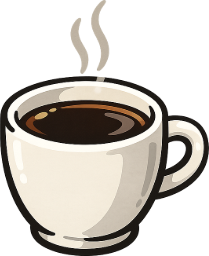
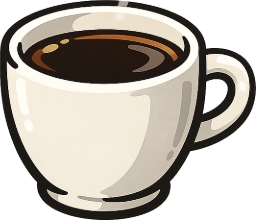
feat: 그림 미리 받기 · 커피 실루엣 수정 · 조준 범위를 받침대와 같게
## 그림을 시작 전에 다 받는다

렌더러가 그리려는 순간에 이미지를 불러오니, 그 물건이 처음 나오는 판에서는
도형 색만 칠해진 채로 떨어졌다. 물건이 57종이 되면서 판마다 처음 보는 물건이
여럿 나온다. 캐시를 렌더러 인스턴스에서 모듈로 올리고(판마다 렌더러가 새로
만들어져 인스턴스 캐시로는 미리 받아둔 것을 못 쓴다) 시작 전에 4.1MB를 받는다.
받는 동안 타이틀 버튼이 진행률을 보여준다.

느린 망을 흉내내(그림마다 400ms) 확인했다 — 판이 시작된 뒤 나가는 그림 요청 0건.
그림 하나가 실패해도 게임은 시작된다. 56종이 멀쩡한데 못 하게 할 이유가 없다.

## 커피 스프라이트

아메리카노 그림에는 컵 위로 김이 세 가닥 **떨어져** 떠 있었다. 크롭 상자는 모든
불투명 픽셀로 잡히는데 윤곽선 추적은 "가장 위 왼쪽 픽셀"에서 시작하므로 김 한
가닥만 따라 그리고 끝났다 — 그림은 컵까지 포함한 크기로 그려지는데 충돌 도형은
김 조각 하나였다.

파이프라인이 떨어져 있는 작은 부스러기(가장 큰 덩이의 6% 미만)를 버리게 했다.
고무장갑 한 쌍이나 운동화 한 켤레처럼 두 덩이가 다 필요한 물건은 남는다.

검증도 하나 늘렸다. 기존 면적 검사는 조각들이 **윤곽선**을 덮는지만 봐서, 엉뚱한
덩이 하나만 따라 그려도 100%가 나온다 — 아메리카노가 정확히 그랬다. 이제 추적한
실루엣이 실제 마스크를 90% 이상 덮는지도 본다. 57종 전부 93~103%로 통과한다.

## 조준 범위 = 받침대 폭

가장 큰 물건의 반폭을 빼두던 것을 없앴다. 조준 실수로 즉사하지 않게 하려던
안전장치였는데, 조준이 틀려도 손해가 없으니 이 게임의 핵심 긴장에서 "정확히"
쪽의 보상이 사라져 있었다. 봇으로 일부러 가장자리만 노려도 판이 끝나지 않았다.

바꾼 뒤 같은 봇으로 잰 차이:

  가운데 조준   18번 떨궈 13개  2.61m  2,234점
  가장자리 조준 10번 떨궈  5개  0.86m    789점

테스트 202개 통과.

diff --git a/tests/MatchEngine.test.ts b/tests/MatchEngine.test.ts
@@ -235,6 +235,67 @@ describe('MatchEngine — 턴제 대전', () => {
     expect(pair.guestState().suggestion).toBeNull()
   })
 
+  /*
+   * 반대 방향도 되어야 한다. 방장은 자기가 보낸 참가자용 메시지를 스스로 처리하지
+   * 않으므로, 참가자와 같은 방식으로 보내면 아무 데도 닿지 않는다.
+   */
+  it('방장이 친 지목도 참가자에게 간다', async () => {
+    pair = await makePair()
+    await pair.clock.advance(1)
+    // 첫 턴은 방장이므로 한 번 떨궈 참가자에게 넘긴다
+    dropSomething(pair)
+    await pair.clock.advance(6)
+    expect(pair.guestState().myTurn).toBe(true)
+
+    const word = pair.hostState().words.find((candidate) => candidate.state === 'active')?.word
+    pair.host.submit(word!)
+    await pair.clock.advance(0.3)
+
+    expect(pair.guestState().suggestion?.word).toBe(word)
+    expect(pair.guestState().suggestion?.by).toBe('host-peer')
+    expect(pair.hostState().suggestion).toBeNull()
+  })
+
+  /*
+   * 자리를 잡는 동안은 아무도 떨굴 수 없다. 그 시간에 친 타자가 버려지면
+   * 대기 구간이 통째로 죽는다 — 떨군 쪽도 지목할 수 있어야 하고,
+   * 다음 차례가 될 사람에게 간 지목은 그 차례까지 살아 있어야 한다.
+   */
+  it('자리를 잡는 동안 떨군 쪽이 한 지목은 다음 차례까지 남는다', async () => {
+    pair = await makePair()
+    await pair.clock.advance(1)
+    dropSomething(pair)
+    await pair.clock.advance(0.4)
+    expect(pair.hostState().settling).toBe(true)
+
+    // 방금 떨군 방장이 다음 차례가 될 참가자에게 지목한다
+    const word = pair.hostState().words.find((candidate) => candidate.state === 'active')?.word
+    pair.host.submit(word!)
+    await pair.clock.advance(0.3)
+    expect(pair.guestState().suggestion?.word).toBe(word)
+
+    // 턴이 넘어가도 살아 있다 — 참가자가 지금 그것을 칠 수 있어야 한다
+    await pair.clock.advance(6)
+    expect(pair.guestState().myTurn).toBe(true)
+    expect(pair.guestState().suggestion?.word).toBe(word)
+  })
+
+  it('내 차례가 끝나면 나에게 온 지목은 지워진다', async () => {
+    pair = await makePair()
+    await pair.clock.advance(1)
+
+    const word = pair.guestState().words.find((candidate) => candidate.state === 'active')?.word
+    pair.guest.submit(word!)
+    await pair.clock.advance(0.3)
+    expect(pair.hostState().suggestion?.word).toBe(word)
+
+    // 방장이 떨구고 턴이 넘어가면 방장에게 온 지목은 쓸 기회를 잃었다
+    dropSomething(pair)
+    await pair.clock.advance(6)
+    expect(pair.hostState().myTurn).toBe(false)
+    expect(pair.hostState().suggestion).toBeNull()
+  })
+
   it('턴이 끝나면 방장이 권위 키프레임을 보낸다', async () => {
     pair = await makePair()
     await pair.clock.advance(1)

diff --git a/src/game/renderer/spriteCache.ts b/src/game/renderer/spriteCache.ts
@@ -1,0 +1,70 @@
+/**
+ * 스프라이트 이미지 캐시.
+ *
+ * 렌더러가 물건을 그리려는 순간에 이미지를 불러오면, 그 물건이 **처음 나오는 판**에서는
+ * 잠깐 도형 색만 칠해진 채로 떨어진다. 물건이 57종이 되면서 이런 순간이 흔해졌다.
+ * 그래서 판이 시작되기 전에 전부 받아둔다.
+ *
+ * 캐시를 모듈에 두는 이유는 렌더러 인스턴스가 판마다 새로 만들어지기 때문이다.
+ * 인스턴스마다 캐시를 들면 미리 받아둔 것을 쓰지 못한다.
+ */
+const cache = new Map<string, HTMLImageElement>()
+
+/** 그릴 준비가 된 이미지. 아직이면 null — 호출부는 도형 색으로 대신 칠한다 */
+function sprite(src: string): HTMLImageElement | null {
+  const found = cache.get(src)
+  if (found !== undefined) {
+    return found.complete && found.naturalWidth > 0 ? found : null
+  }
+  // 미리 받지 못한 경로가 들어와도 그리기가 멈추면 안 되므로 여기서도 받아둔다
+  void load(src)
+  return null
+}
+
+function load(src: string): Promise<void> {
+  const found = cache.get(src)
+  if (found !== undefined && found.complete) {
+    return Promise.resolve()
+  }
+  return new Promise((resolve) => {
+    const image = found ?? new Image()
+    if (found === undefined) {
+      cache.set(src, image)
+    }
+    /*
+     * 실패해도 resolve한다. 그림 하나를 못 받았다고 게임이 시작되지 않으면
+     * 나머지 56종이 멀쩡한데도 아무것도 못 한다 — 그 물건만 도형 색으로 나온다.
+     */
+    image.onload = () => resolve()
+    image.onerror = () => resolve()
+    image.src = src
+  })
+}
+
+/**
+ * 전부 미리 받는다. 진행도를 0~1로 알려준다.
+ * 순서대로가 아니라 한꺼번에 시작한다 — 브라우저가 알아서 동시 연결 수를 조절한다.
+ */
+async function preloadSprites(
+  sources: readonly string[],
+  onProgress?: (ratio: number) => void,
+): Promise<void> {
+  const unique = [...new Set(sources)]
+  if (unique.length === 0) {
+    onProgress?.(1)
+    return
+  }
+
+  let done = 0
+  onProgress?.(0)
+  await Promise.all(
+    unique.map((src) =>
+      load(src).then(() => {
+        done += 1
+        onProgress?.(done / unique.length)
+      }),
+    ),
+  )
+}
+
+export { sprite, preloadSprites }

diff --git a/src/game/data/sprites.generated.ts b/src/game/data/sprites.generated.ts
@@ -515,13 +515,14 @@ const SPRITES = {
     ],
   },
   'americano': {
-    aspect: 0.8175,
-    outline: [[-0.0094, 1], [-0.0582, 0.8221], [0.0319, 0.6626], [0.0394, 0.5767], [-0.0169, 0.4724], [-0.0732, 0.454], [-0.0356, 0.6166], [-0.1257, 0.865], [-0.0131, 0.9969]],
+    aspect: 1.1638,
+    outline: [[-0.2458, 1], [0.0206, 0.9869], [0.3096, 0.9083], [0.5159, 0.7729], [0.5797, 0.6812], [0.6098, 0.559], [0.7636, 0.5546], [0.8949, 0.4847], [0.97, 0.3668], [0.9962, 0.2314], [0.9775, 0.048], [0.9024, -0.1135], [0.7411, -0.2664], [0.4897, -0.3668], [0.3246, -0.6463], [0.3021, -0.7991], [0.152, -0.9301], [-0.0356, -0.9869], [-0.2495, -0.9956], [-0.4559, -0.9563], [-0.6435, -0.8472], [-0.7036, -0.7467], [-0.7148, -0.6463], [-0.8724, -0.3712], [-0.9512, -0.1135], [-1, 0.2751], [-0.9925, 0.6114], [-0.8949, 0.7817], [-0.7373, 0.8865], [-0.4859, 0.9694], [-0.2495, 0.9956]],
     pieces: [
-      [[-0.0356, 0.6166], [-0.0582, 0.8221], [0.0319, 0.6626], [0.0394, 0.5767]],
-      [[0.0394, 0.5767], [-0.0169, 0.4724], [-0.0732, 0.454], [-0.0356, 0.6166]],
-      [[-0.0582, 0.8221], [-0.0356, 0.6166], [-0.1257, 0.865]],
-      [[-0.1257, 0.865], [-0.0131, 0.9969], [-0.0094, 1], [-0.0582, 0.8221]],
+      [[0.6098, 0.559], [0.7636, 0.5546], [0.8949, 0.4847], [0.97, 0.3668], [0.9962, 0.2314], [0.9775, 0.048], [0.9024, -0.1135], [0.7411, -0.2664], [0.4897, -0.3668]],
+      [[-0.7148, -0.6463], [-0.8724, -0.3712], [-0.9512, -0.1135], [-1, 0.2751], [-0.9925, 0.6114], [-0.8949, 0.7817], [-0.7373, 0.8865], [-0.4859, 0.9694], [-0.2495, 0.9956]],
+      [[-0.2495, 0.9956], [-0.2458, 1], [0.0206, 0.9869], [0.3096, 0.9083], [0.5159, 0.7729], [0.5797, 0.6812], [0.6098, 0.559], [-0.6435, -0.8472], [-0.7036, -0.7467], [-0.7148, -0.6463]],
+      [[0.3246, -0.6463], [0.3021, -0.7991], [0.152, -0.9301], [-0.0356, -0.9869], [-0.2495, -0.9956]],
+      [[-0.2495, -0.9956], [-0.4559, -0.9563], [-0.6435, -0.8472], [0.6098, 0.559], [0.4897, -0.3668], [0.3246, -0.6463]],
     ],
   },
   'bicycle': {

diff --git a/src/hooks/useGameEngine.ts b/src/hooks/useGameEngine.ts
@@ -1,10 +1,17 @@
 import { useEffect, useState } from 'react'
 import { GameEngine, type GameState } from '../game/core/GameEngine.ts'
+import { WORDS } from '../game/data/words.ts'
+import { preloadSprites } from '../game/renderer/spriteCache.ts'
 import { loadCollection, saveCollection } from '../storage/collection.ts'
+
+/** 게임에 나오는 모든 그림. 판이 시작되기 전에 이만큼을 받아둔다 */
+const SPRITE_SOURCES = WORDS.flatMap((entry) => entry.variants.map((item) => item.sprite))
 
 interface UseGameEngine {
   readonly engine: GameEngine | null
   readonly state: GameState | null
+  /** 스프라이트를 받은 비율(0~1). 다 받기 전에는 판을 시작하지 않는다 */
+  readonly assetProgress: number
 }
 
 /**
@@ -14,6 +21,26 @@ interface UseGameEngine {
 function useGameEngine(): UseGameEngine {
   const [engine, setEngine] = useState<GameEngine | null>(null)
   const [state, setState] = useState<GameState | null>(null)
+  const [assetProgress, setAssetProgress] = useState(0)
+
+  /*
+   * 그림을 미리 다 받아둔다.
+   *
+   * 렌더러는 그리려는 순간에 이미지를 불러오므로, 미리 받지 않으면 그 물건이
+   * 처음 나오는 판에서 도형 색만 칠해진 채로 떨어진다. 물건이 57종이 되면서
+   * 판마다 처음 보는 물건이 여럿 나온다.
+   */
+  useEffect(() => {
+    let disposed = false
+    void preloadSprites(SPRITE_SOURCES, (ratio) => {
+      if (!disposed) {
+        setAssetProgress(ratio)
+      }
+    })
+    return () => {
+      disposed = true
+    }
+  }, [])
 
   useEffect(() => {
     let disposed = false
@@ -49,7 +76,7 @@ function useGameEngine(): UseGameEngine {
     return () => window.removeEventListener('resize', onResize)
   }, [engine])
 
-  return { engine, state }
+  return { engine, state, assetProgress }
 }
 
 export { useGameEngine }

diff --git a/src/game/renderer/ArenaRenderer.ts b/src/game/renderer/ArenaRenderer.ts
@@ -1,3 +1,4 @@
+import { sprite } from './spriteCache.ts'
 import { ARENA, ARENA_SCREEN_MAX_WIDTH } from '../config.ts'
 import type { Bounds } from '../shapes.ts'
 import type {
@@ -69,7 +70,6 @@ const WORLD_WIDTH = ARENA.halfWidth * 2
 class ArenaRenderer {
   private readonly canvas: HTMLCanvasElement
   private readonly ctx: CanvasRenderingContext2D
-  private readonly imageCache = new Map<string, HTMLImageElement>()
   private scale = 1
   private cssWidth = 0
   private cssHeight = 0
@@ -126,18 +126,6 @@ class ArenaRenderer {
     ctx.restore()
   }
 
-
-  /** 스프라이트는 비동기로 로드되므로 준비된 것만 그린다 */
-  private image(src: string): HTMLImageElement | null {
-    const cached = this.imageCache.get(src)
-    if (cached !== undefined) {
-      return cached.complete && cached.naturalWidth > 0 ? cached : null
-    }
-    const img = new Image()
-    img.src = src
-    this.imageCache.set(src, img)
-    return null
-  }
 
   private toScreenX(worldX: number): number {
     return this.cssWidth / 2 + worldX * this.scale
@@ -259,7 +247,7 @@ class ArenaRenderer {
 
     ctx.globalAlpha = alpha * 0.2
     const ghost = unit * (1.3 + t * 0.5)
-    const img = this.image(reveal.sprite)
+    const img = sprite(reveal.sprite)
     if (img !== null) {
       const ratio = img.naturalWidth / img.naturalHeight
       const w = ratio >= 1 ? ghost : ghost * ratio
@@ -338,7 +326,7 @@ class ArenaRenderer {
    * 실루엣이 그대로 나오고, 그 위에 그림을 다시 덮어 테두리만 남긴다.
    */
   private drawSprite(src: string, bounds: Bounds, rim: string | null): boolean {
-    const img = this.image(src)
+    const img = sprite(src)
     if (img === null) {
       return false
     }

diff --git a/src/game/config.ts b/src/game/config.ts
@@ -57,13 +57,17 @@ const CAMERA_FOLLOW = 3.5
 const MAX_ITEM_HALF_WIDTH = 0.55
 
 /**
- * 화살표가 훑는 범위.
+ * 화살표가 훑는 범위. 받침대 반폭과 같다.
  *
- * 받침대 반폭에서 가장 큰 물건의 반폭을 뺀 값이다. 즉 어느 타이밍에 Enter를 쳐도
- * 물건은 받침대 위에 온전히 얹힌다. 조준 실수 하나로 즉사하지 않아야 하고,
- * 그래야 무너짐이 조준이 아니라 순수하게 쌓기 실패에서만 나온다.
+ * 예전에는 가장 큰 물건의 반폭을 빼서, 어느 타이밍에 Enter를 쳐도 물건이 받침대에
+ * 온전히 얹히게 했다. 조준 실수로 즉사하지 않게 하려는 안전장치였는데 대가가 있었다 —
+ * 조준이 틀려도 손해가 없으니 이 게임의 핵심 긴장("빨리" 대 "정확히")에서 정확히
+ * 쪽의 보상이 사라졌다. 실제로 봇으로 일부러 가장자리만 노려도 판이 끝나지 않았다.
+ *
+ * 이제 받침대 끝까지 조준할 수 있다. 끝을 노리면 물건이 절반쯤 걸치므로 Enter를
+ * 언제 누르는지가 곧바로 값을 치른다.
  */
-const AIM_HALF_RANGE = ARENA.platformHalfWidth - MAX_ITEM_HALF_WIDTH
+const AIM_HALF_RANGE = ARENA.platformHalfWidth
 
 /** 물건을 연달아 쏟아내 물리를 망가뜨리는 것만 막는 최소 간격 */
 const DROP_COOLDOWN_MS = 300

diff --git a/tests/shapes.test.ts b/tests/shapes.test.ts
@@ -133,10 +133,16 @@ describe('물건 크기', () => {
     }
   })
 
-  it('조준 양 끝에서 떨궈도 가장 큰 물건이 받침대 위에 온전히 얹힌다', () => {
-    expect(AIM_HALF_RANGE + MAX_ITEM_HALF_WIDTH).toBeLessThanOrEqual(
-      ARENA.platformHalfWidth,
-    )
-    expect(AIM_HALF_RANGE).toBeGreaterThan(0.5)
+  it('조준 범위는 받침대와 같다 — 끝을 노리면 걸치도록', () => {
+    /*
+     * 예전에는 가장 큰 물건의 반폭을 빼서 어느 타이밍에 Enter를 쳐도 온전히
+     * 얹히게 했다. 그러면 조준이 틀려도 손해가 없어 "정확히" 쪽의 보상이 사라진다.
+     */
+    expect(AIM_HALF_RANGE).toBe(ARENA.platformHalfWidth)
+  })
+
+  it('조준 끝에서도 물건의 절반 이상은 받침대에 걸린다 — 즉시 이탈은 아니어야 한다', () => {
+    // 물건 중심이 받침대 끝에 놓이므로 언제나 절반은 얹힌다. 나머지는 물리가 정한다
+    expect(MAX_ITEM_HALF_WIDTH).toBeLessThan(ARENA.platformHalfWidth)
   })
 })

diff --git a/src/screens/TitleScreen.tsx b/src/screens/TitleScreen.tsx
@@ -4,6 +4,8 @@ import { LIVES } from '../game/config.ts'
 
 interface TitleScreenProps {
   onStart: () => void
+  /** 그림을 받은 비율(0~1). 기다리는 동안 얼마나 남았는지 보여준다 */
+  progress: number
   onMultiplayer: () => void
   onCollection: () => void
   ready: boolean
@@ -25,7 +27,7 @@ const ruleStyle: CSSProperties = {
   maxWidth: 460,
 }
 
-function TitleScreen({ onStart, onMultiplayer, onCollection, ready }: TitleScreenProps) {
+function TitleScreen({ onStart, onMultiplayer, onCollection, ready, progress }: TitleScreenProps) {
   useEffect(() => {
     if (!ready) {
       return
@@ -90,7 +92,7 @@ function TitleScreen({ onStart, onMultiplayer, onCollection, ready }: TitleScree
             cursor: ready ? 'pointer' : 'default',
           }}
         >
-          {ready ? '혼자 하기 (Enter)' : '물리 엔진 준비 중…'}
+          {ready ? '혼자 하기 (Enter)' : `준비 중… ${Math.round(progress * 100)}%`}
         </button>
 
         <button

diff --git a/src/multi/MatchEngine.ts b/src/multi/MatchEngine.ts
@@ -185,19 +185,16 @@ class MatchEngine {
     }
 
     const word = result.word.word
-    if (this.isMyTurn()) {
+    if (this.canDropNow()) {
       this.requestDrop(word)
-    } else {
-      this.transport.broadcast({ t: 'suggest', word })
-      this.feedback = {
-        seq: this.feedbackSeq,
-        text: word,
-        kind: 'suggested',
-        itemLabel: null,
-        hidden: false,
-      }
-      this.emit()
+      return
     }
+    /*
+     * 떨굴 수 없는 두 경우 — 상대 차례이거나, 떨군 물건이 자리를 잡는 중이다.
+     * 둘 다 지목으로 보낸다. 자리를 잡는 구간을 비워두면 떨군 사람의 타자가
+     * 아무 반응 없이 삼켜져서, 그 몇 초가 통째로 죽는다.
+     */
+    this.sendSuggestion(word)
   }
 
   handleTransportEvent(event: TransportEvent): void {

diff --git a/src/App.tsx b/src/App.tsx
@@ -25,7 +25,7 @@ function initialRoute(): Route {
 
 function App() {
   const [route, setRoute] = useState<Route>(initialRoute)
-  const { engine, state } = useGameEngine()
+  const { engine, state, assetProgress } = useGameEngine()
   const match = useMatchSession()
 
   const startSolo = useCallback(() => {
@@ -72,7 +72,8 @@ function App() {
         onStart={startSolo}
         onMultiplayer={() => setRoute('lobby')}
         onCollection={() => setRoute('collection')}
-        ready={engine !== null && state !== null}
+        ready={engine !== null && state !== null && assetProgress >= 1}
+        progress={assetProgress}
       />
     )
   }
